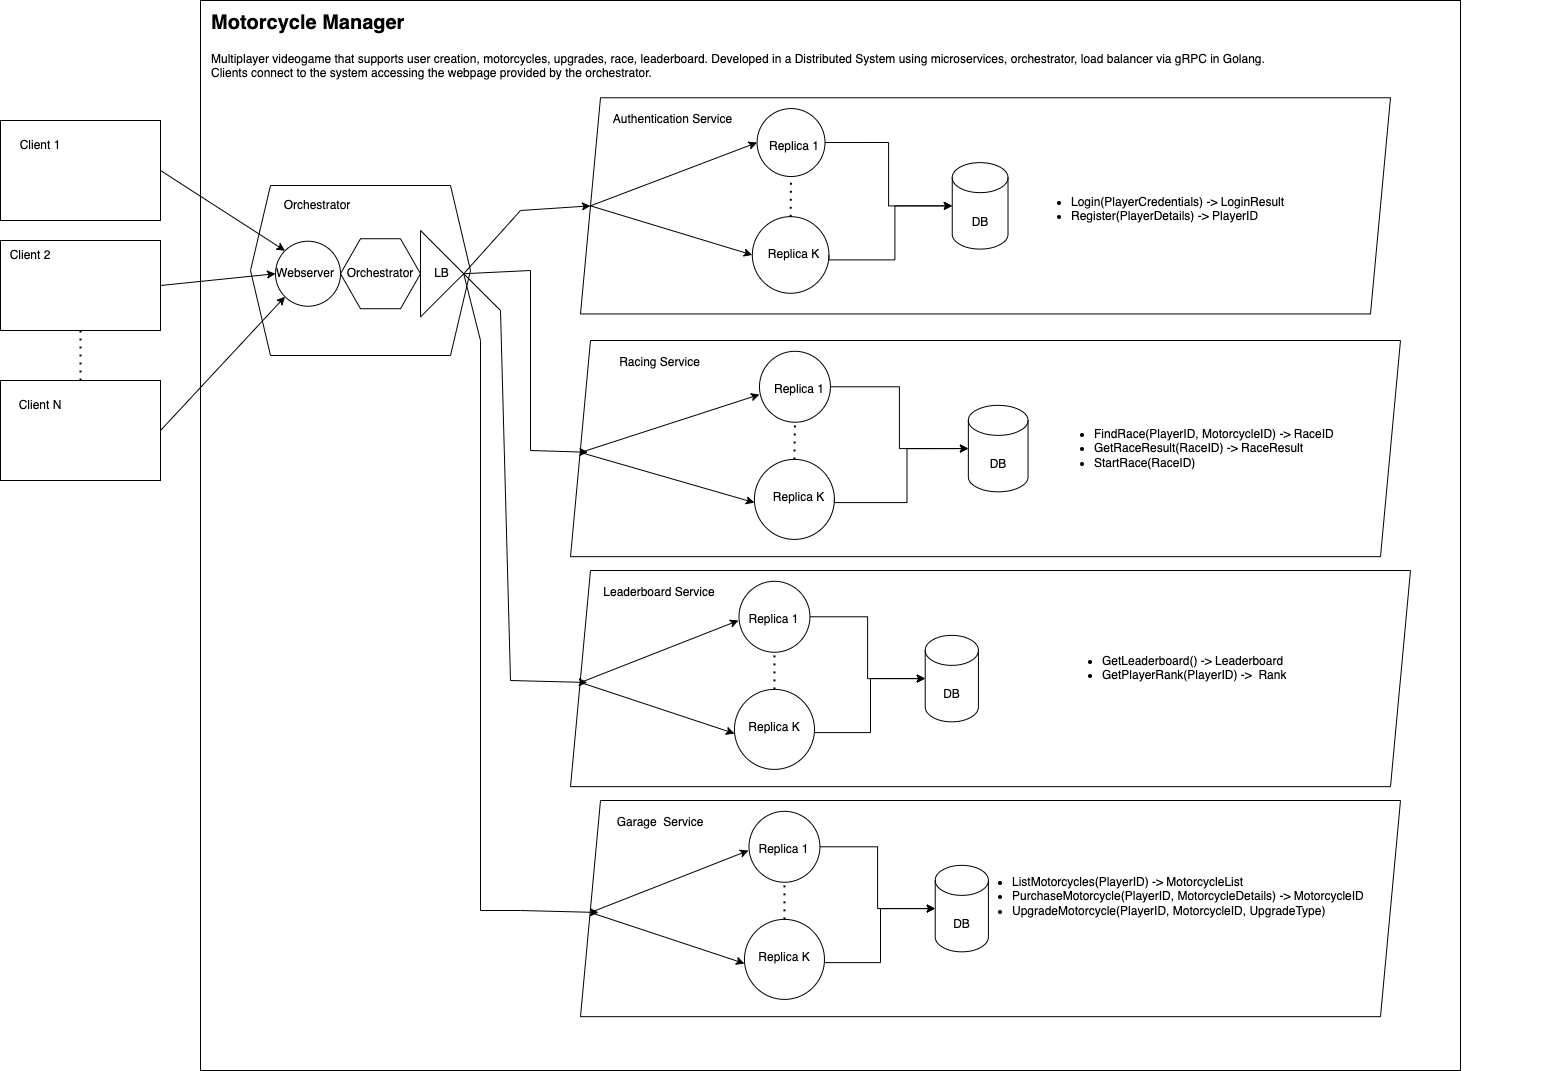
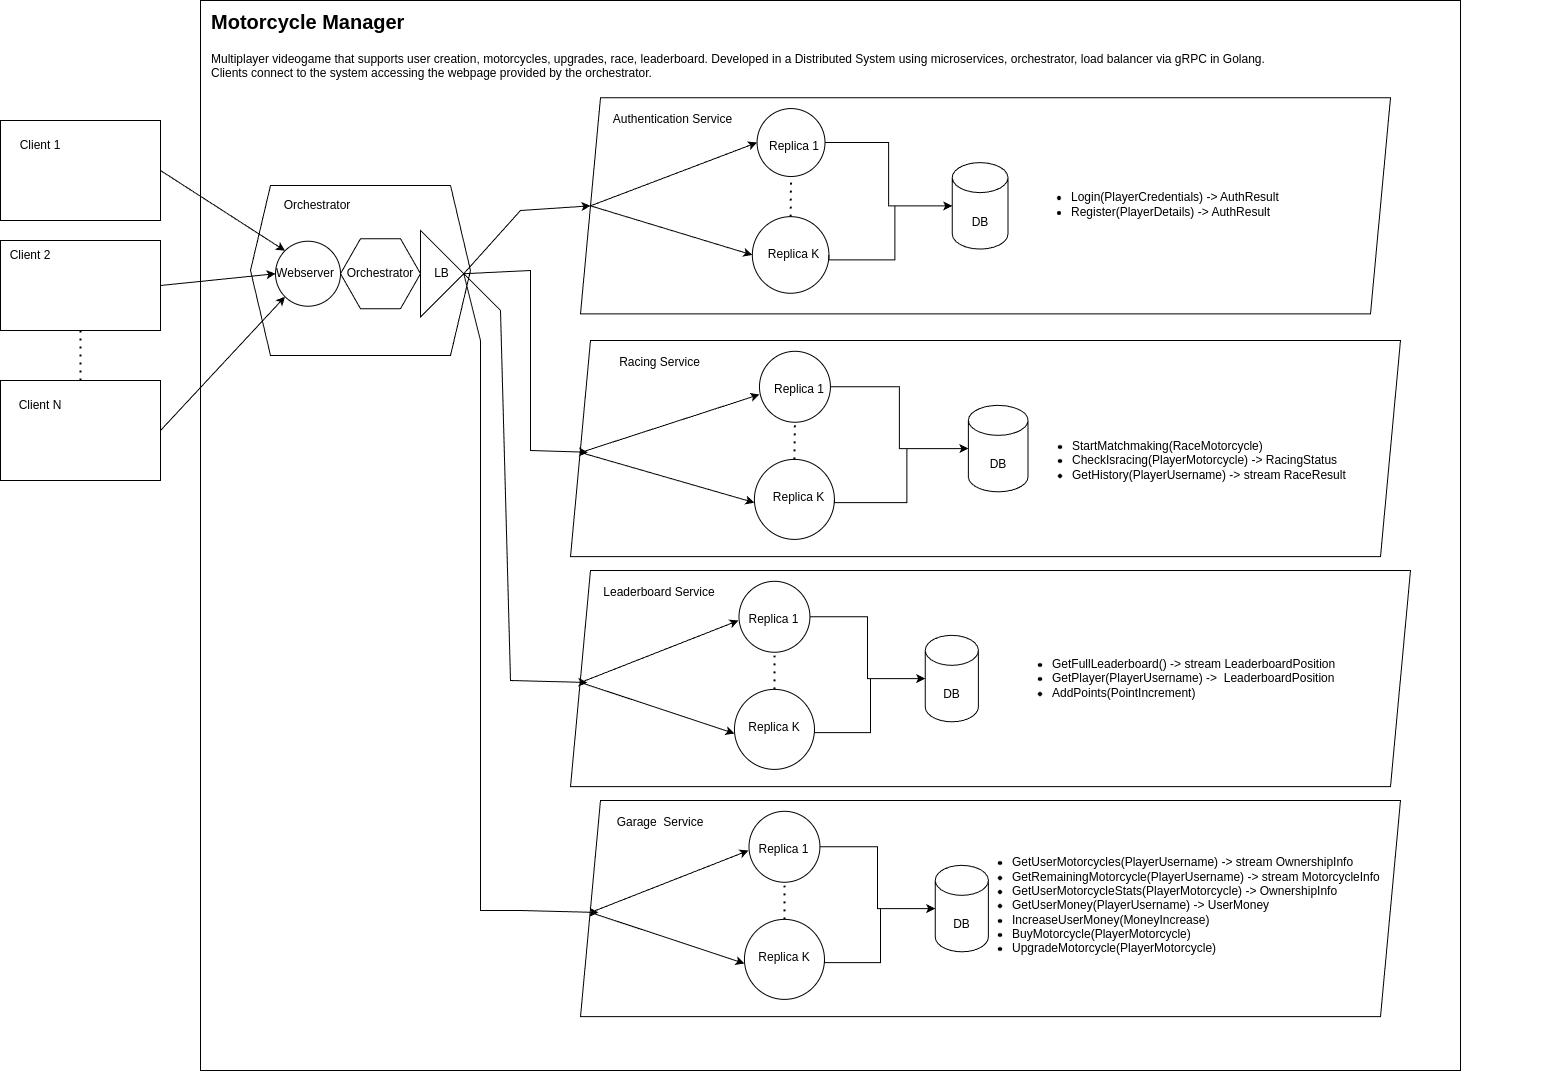
update architecture image

diff --git a/README.md b/README.md
@@ -2,6 +2,10 @@
 
 ![alt text](architecture.png "Architecture")
 
+## Description
+
+Motorcycle Manager is an online game that allows the users to register in the system, buy and upgrade motorcycles, start a race and keep track of the wins in the history, and more importantly being the best driver in the leaderboard.
+
 ## Prerequisites
 
 - docker
